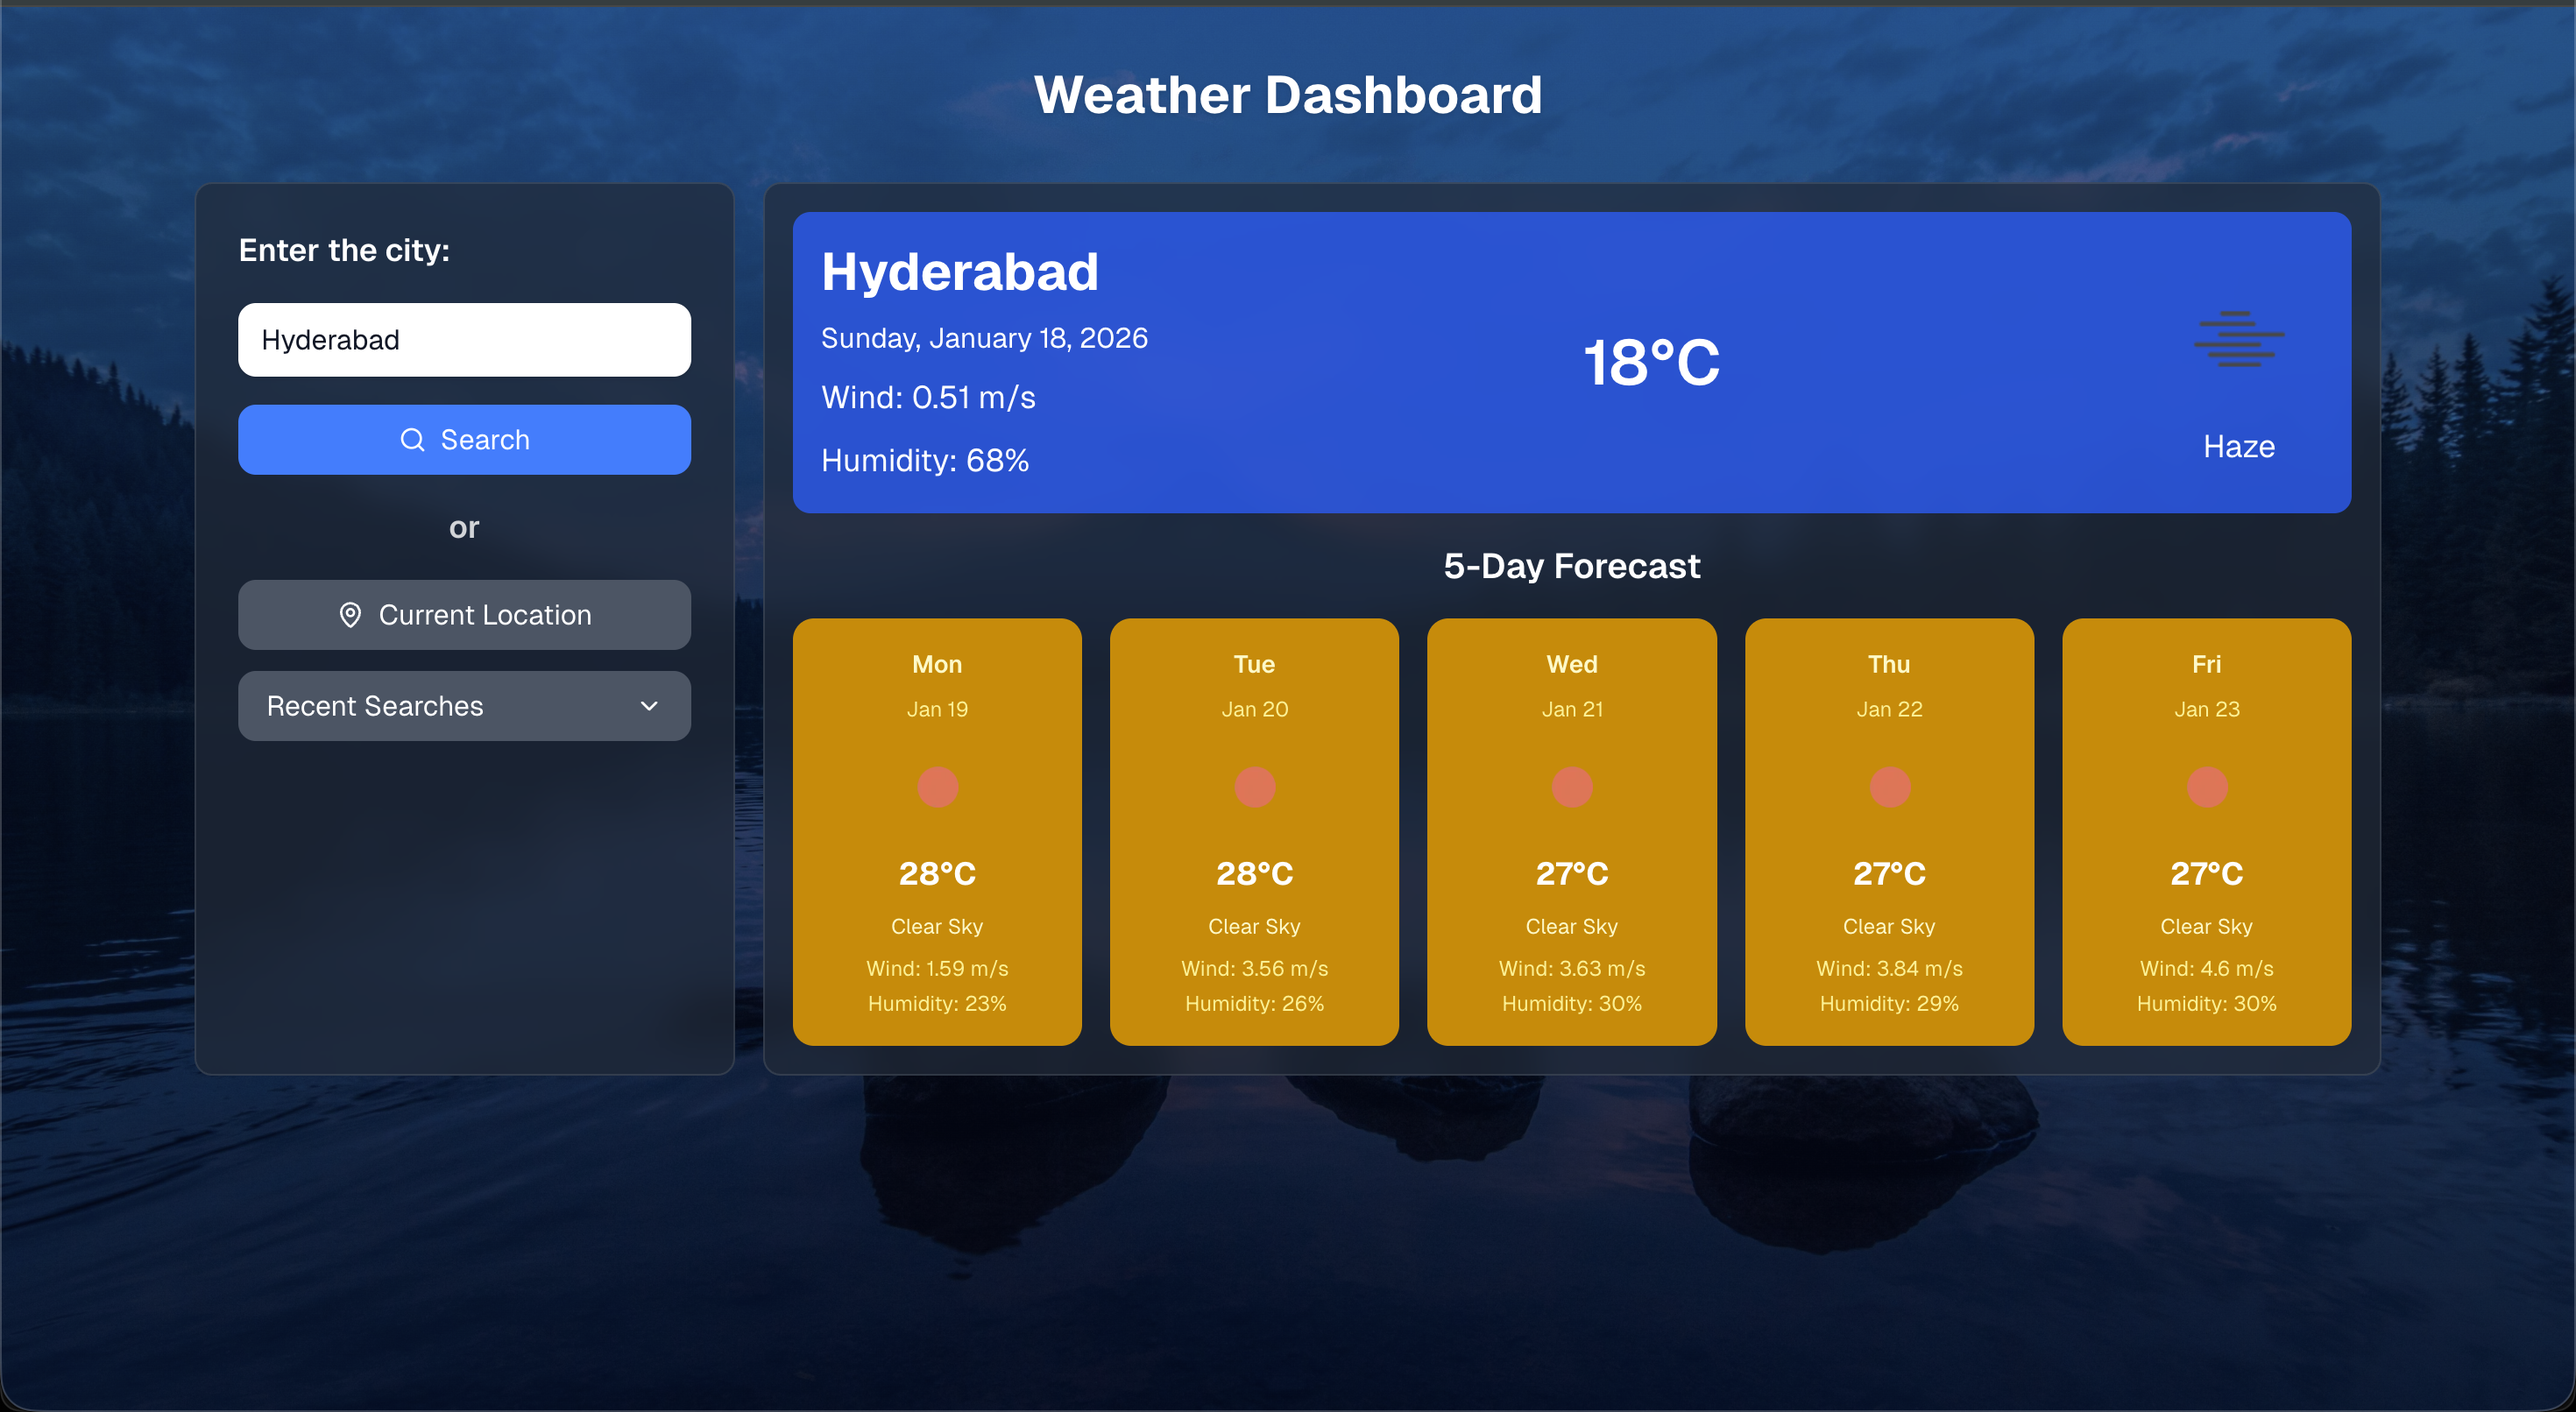
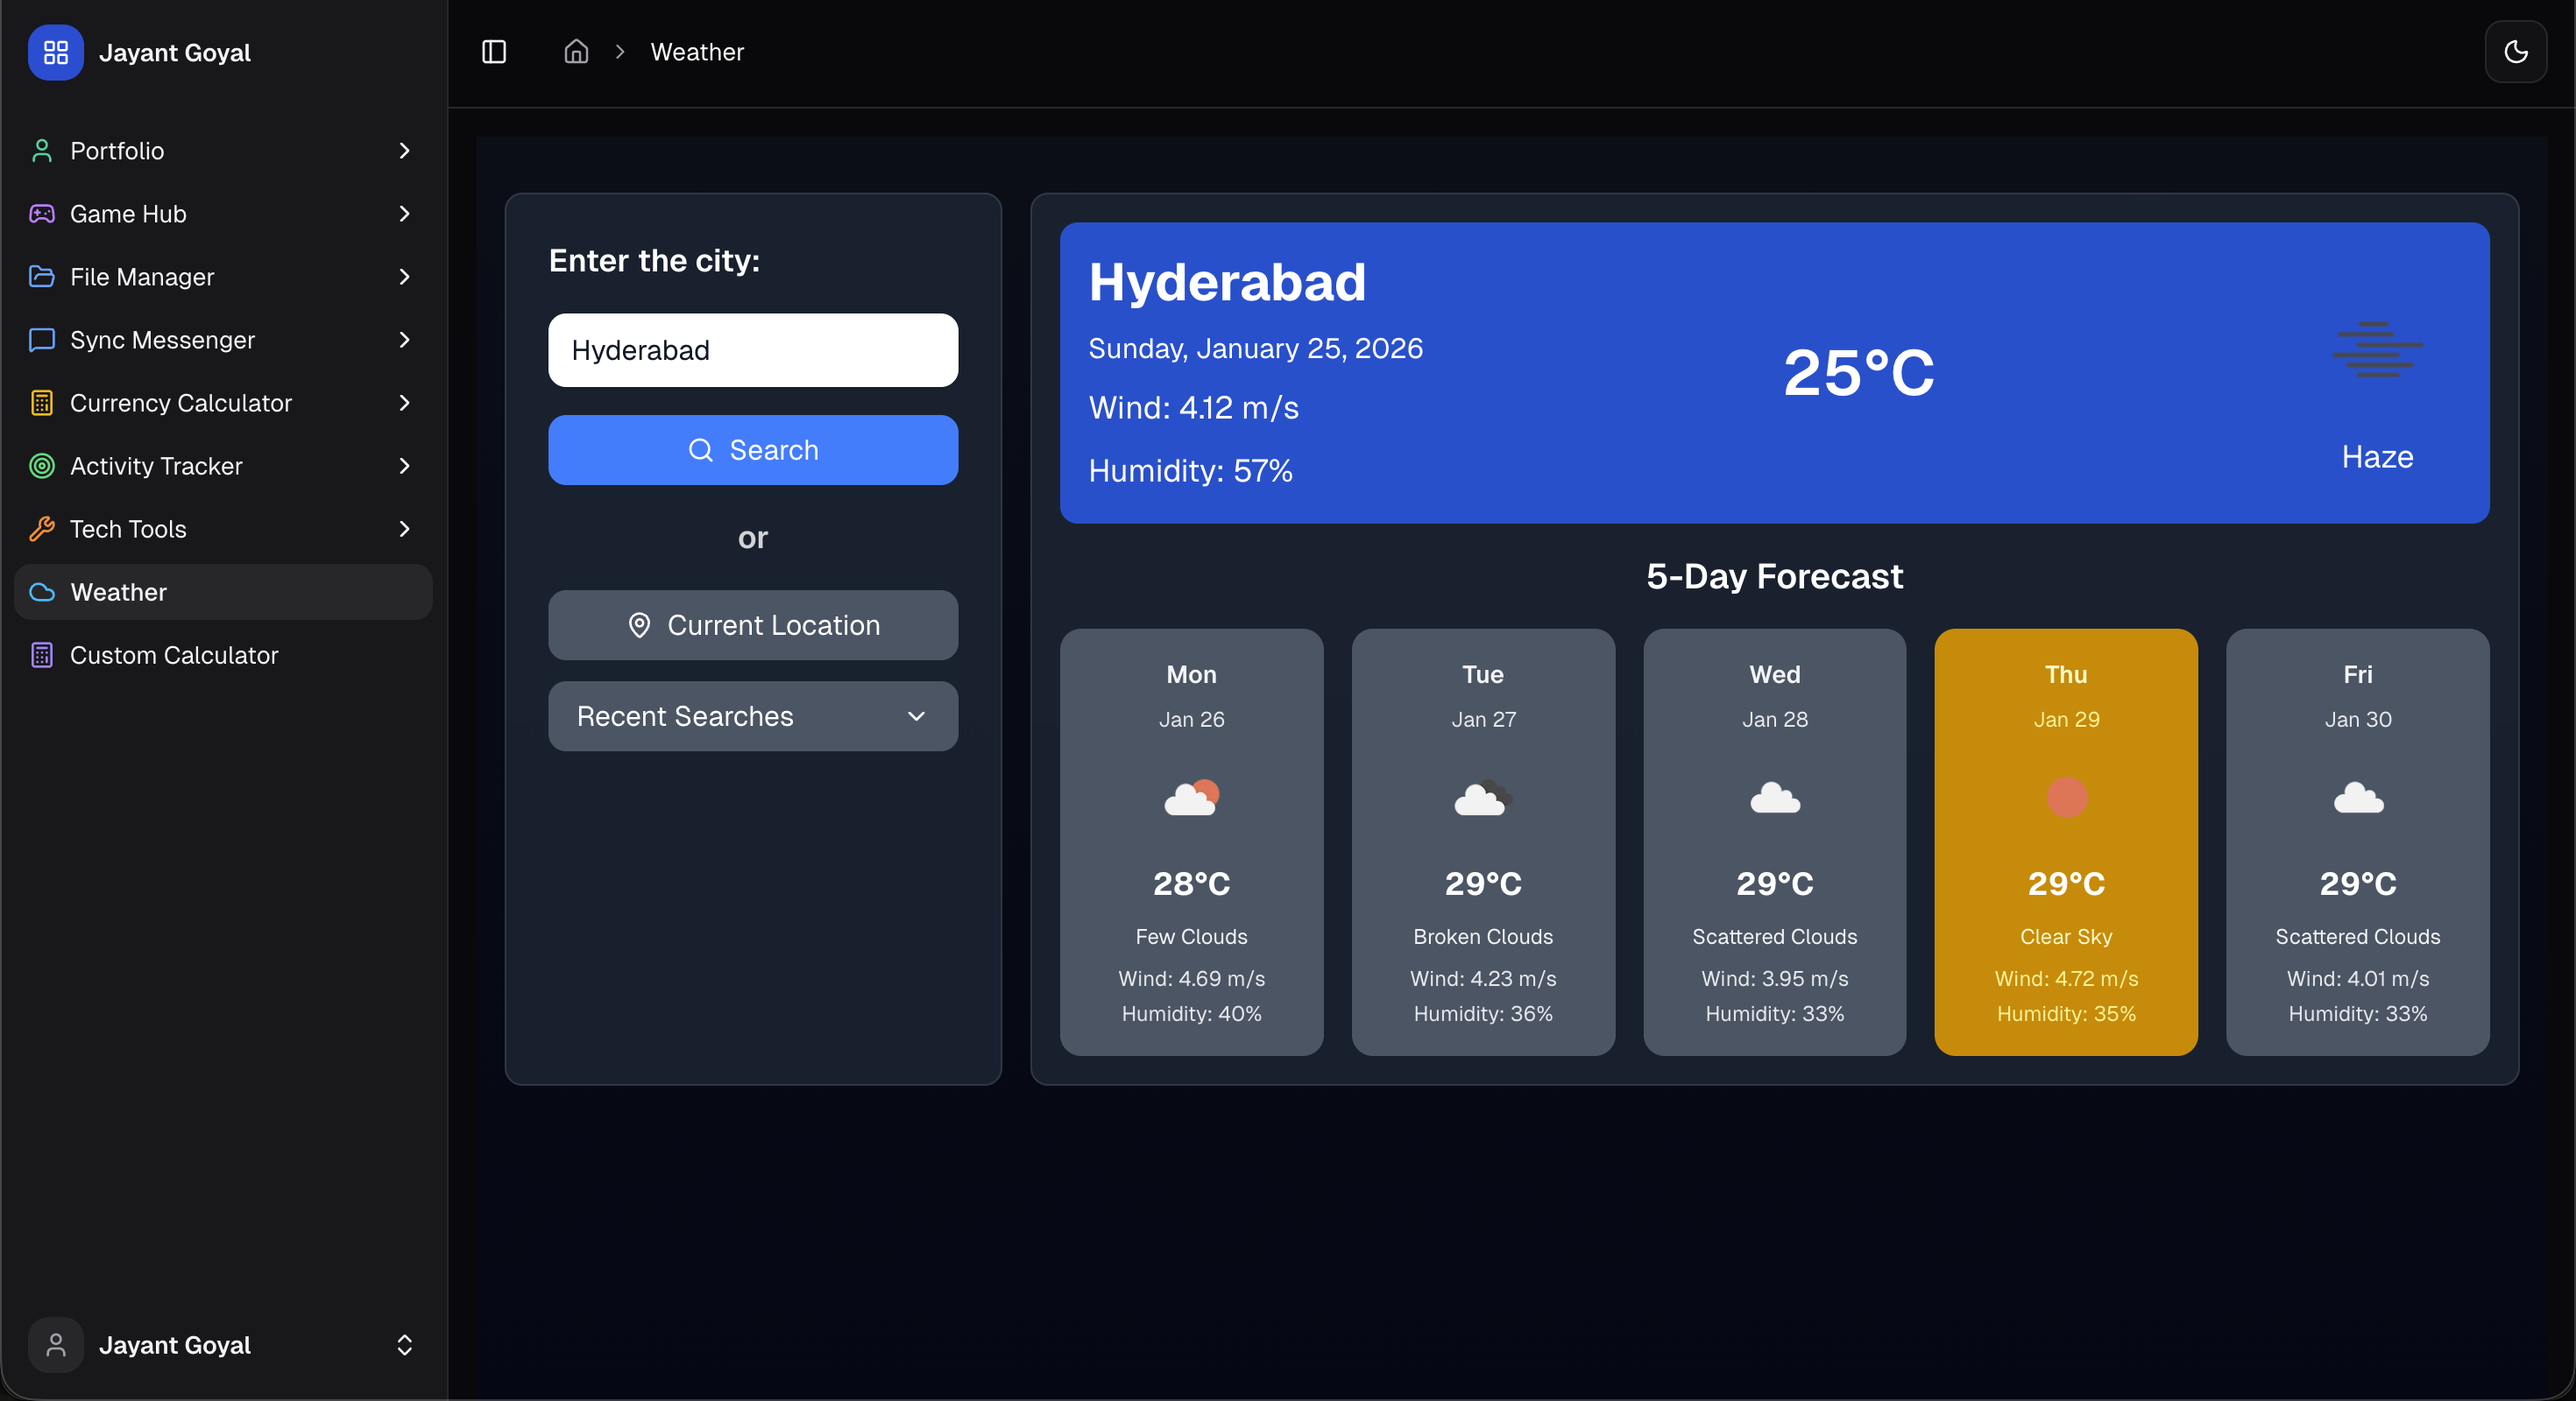
Updated the projects photos

diff --git a/apps/jayantgoyal/src/lib/portfolio/profiles/jayant-portfolio-data.ts b/apps/jayantgoyal/src/lib/portfolio/profiles/jayant-portfolio-data.ts
@@ -211,8 +211,8 @@ const PROJECTS = [
       "Developed a personal calculator to total cash denomination, store multiple calculations per date, and add optional notes.",
     fullDescription:
       "Developed a personal calculator to total cash denomination, store multiple calculations per date, and add optional notes. Integrated Supabase for backend storage with full CRUD functionality. Built with React and custom external CSS for a clean, responsive UI and smooth user interactions. Features include bundle counting, historical tracking, and data persistence.",
-    imageLight: "/assets/ProjectImages/Light/ccal.png",
-    imageDark: "/assets/ProjectImages/Dark/ccal.png",
+    imageLight: "/assets/ProjectImages/Light/calculator.png",
+    imageDark: "/assets/ProjectImages/Dark/calculator.png",
     tags: ["Next.js", "Supabase", "CSS", "CRUD Operations"],
     githubLink:
       "https://github.com/goyal1510/jayantgoyal/tree/main/apps/jayantgoyal",
@@ -223,8 +223,8 @@ const PROJECTS = [
     shortDescription: "Built a drag-and-drop calculator using React and Zustand.",
     fullDescription:
       "Built a drag-and-drop calculator using React and Zustand. Added dark mode, backspace, clear all, and duplicate prevention. Styled with Tailwind CSS and optimized with Vite. Features a calculator builder with drag-and-drop functionality.",
-    imageLight: "/assets/ProjectImages/Light/customcal.png",
-    imageDark: "/assets/ProjectImages/Dark/customcal.png",
+    imageLight: "/assets/ProjectImages/Light/custom-calculator.png",
+    imageDark: "/assets/ProjectImages/Dark/custom-calculator.png",
     tags: ["Next.js", "Tailwind CSS", "Drag & Drop"],
     githubLink:
       "https://github.com/goyal1510/jayantgoyal/tree/main/apps/jayantgoyal",
@@ -249,8 +249,8 @@ const PROJECTS = [
       "Developed a Game Hub featuring five interactive games: Rock Paper Scissors, Tic Tac Toe, Connect Four, Memory Match, and Dare X.",
     fullDescription:
       "Developed a Game Hub featuring five interactive games: Rock Paper Scissors, Tic Tac Toe, Connect Four, Memory Match, and Dare X. Built with Next.js 16, TypeScript, and Supabase for authentication. Features include animated coin drops in Connect Four, winning line highlighting, AI opponents with strategic gameplay, multiple difficulty levels in Memory Match, and comprehensive game state management. Includes both Player vs Player and Player vs Computer modes for most games.",
-    imageLight: "/assets/ProjectImages/Light/ghub.png",
-    imageDark: "/assets/ProjectImages/Dark/ghub.png",
+    imageLight: "/assets/ProjectImages/Light/games.png",
+    imageDark: "/assets/ProjectImages/Dark/games.png",
     tags: ["Next.js", "TypeScript", "Supabase", "Interactive Games", "AI Opponents"],
     githubLink:
       "https://github.com/goyal1510/jayantgoyal/tree/main/apps/jayantgoyal",
@@ -274,8 +274,8 @@ const PROJECTS = [
       "Supabase-authenticated activity tracking tool for monitoring daily activities with performance KPIs and dashboard analytics.",
     fullDescription:
       "Built a comprehensive activity tracking application using Next.js, TypeScript, and Supabase. Features include custom activity creation, daily checkbox-based tracking, month navigation, and a dashboard with real-time KPIs and performance metrics. Activities persist across months, allowing users to track their progress over time. Includes completion rates, progress bars, and user-specific data with full authentication support.",
-    imageLight: "/assets/ProjectImages/Light/atrack.png",
-    imageDark: "/assets/ProjectImages/Dark/atrack.png",
+    imageLight: "/assets/ProjectImages/Light/activity-tracker.png",
+    imageDark: "/assets/ProjectImages/Dark/activity-tracker.png",
     tags: ["Next.js", "TypeScript", "Supabase", "Dashboard", "Analytics"],
     githubLink:
       "https://github.com/goyal1510/jayantgoyal/tree/main/apps/jayantgoyal",
@@ -287,8 +287,8 @@ const PROJECTS = [
       "A comprehensive collection of 99+ developer tools and utilities including generators, converters, parsers, validators, and formatters.",
     fullDescription:
       "Developed a comprehensive developer tools platform with 99+ utilities organized into 10 categories. Features include generators (UUID, ULID, tokens, RSA keys), hash & encryption tools, converters (date-time, base64, color, JSON/YAML/TOML/XML), text tools, parsers & validators, formatters, code & dev tools, network tools, media & QR generators, and calculators. Built with Next.js 16, React 19, TypeScript, and Tailwind CSS v4. Includes modern UI with dark mode, responsive design, collapsible sidebar navigation, and real-time updates.",
-    imageLight: "/assets/ProjectImages/Light/tech.png",
-    imageDark: "/assets/ProjectImages/Dark/tech.png",
+    imageLight: "/assets/ProjectImages/Light/tools.png",
+    imageDark: "/assets/ProjectImages/Dark/tools.png",
     tags: ["Next.js", "TypeScript", "React", "Developer Tools", "Utilities"],
     githubLink:
       "https://github.com/goyal1510/jayantgoyal/tree/main/apps/jayantgoyal",
@@ -300,8 +300,8 @@ const PROJECTS = [
       "Full-stack file management system with private storage, directory support, file operations, and user authentication.",
     fullDescription:
       "Built a complete file management system using Next.js and Supabase with hierarchical directory support. Features include user authentication, private file storage, file upload/download/preview, directory management (create, navigate, move, copy), file operations (rename, delete, restore), search and filtering capabilities. Implemented with a custom database schema using the fmanager schema, storage bucket management, Row-Level Security (RLS) policies, and a modern responsive UI. Supports file type categorization, versioning, and soft delete functionality.",
-    imageLight: "/assets/ProjectImages/Light/tech.png",
-    imageDark: "/assets/ProjectImages/Dark/tech.png",
+    imageLight: "/assets/ProjectImages/Light/files.png",
+    imageDark: "/assets/ProjectImages/Dark/files.png",
     tags: ["Next.js", "TypeScript", "Supabase", "File Storage", "Database"],
     githubLink:
       "https://github.com/goyal1510/jayantgoyal/tree/main/apps/jayantgoyal",
@@ -313,8 +313,8 @@ const PROJECTS = [
       "Real-time messaging application with Supabase authentication and instant message synchronization.",
     fullDescription:
       "Built a real-time messaging application using Next.js, TypeScript, and Supabase. Features include user authentication, real-time message updates using Supabase subscriptions, message history, and a clean responsive UI. Messages sync instantly across devices with full CRUD operations for managing conversations.",
-    imageLight: "/assets/ProjectImages/Light/tech.png",
-    imageDark: "/assets/ProjectImages/Dark/tech.png",
+    imageLight: "/assets/ProjectImages/Light/messenger.png",
+    imageDark: "/assets/ProjectImages/Dark/messenger.png",
     tags: ["Next.js", "TypeScript", "Supabase", "Real-time", "Messaging"],
     githubLink:
       "https://github.com/goyal1510/jayantgoyal/tree/main/apps/jayantgoyal",
